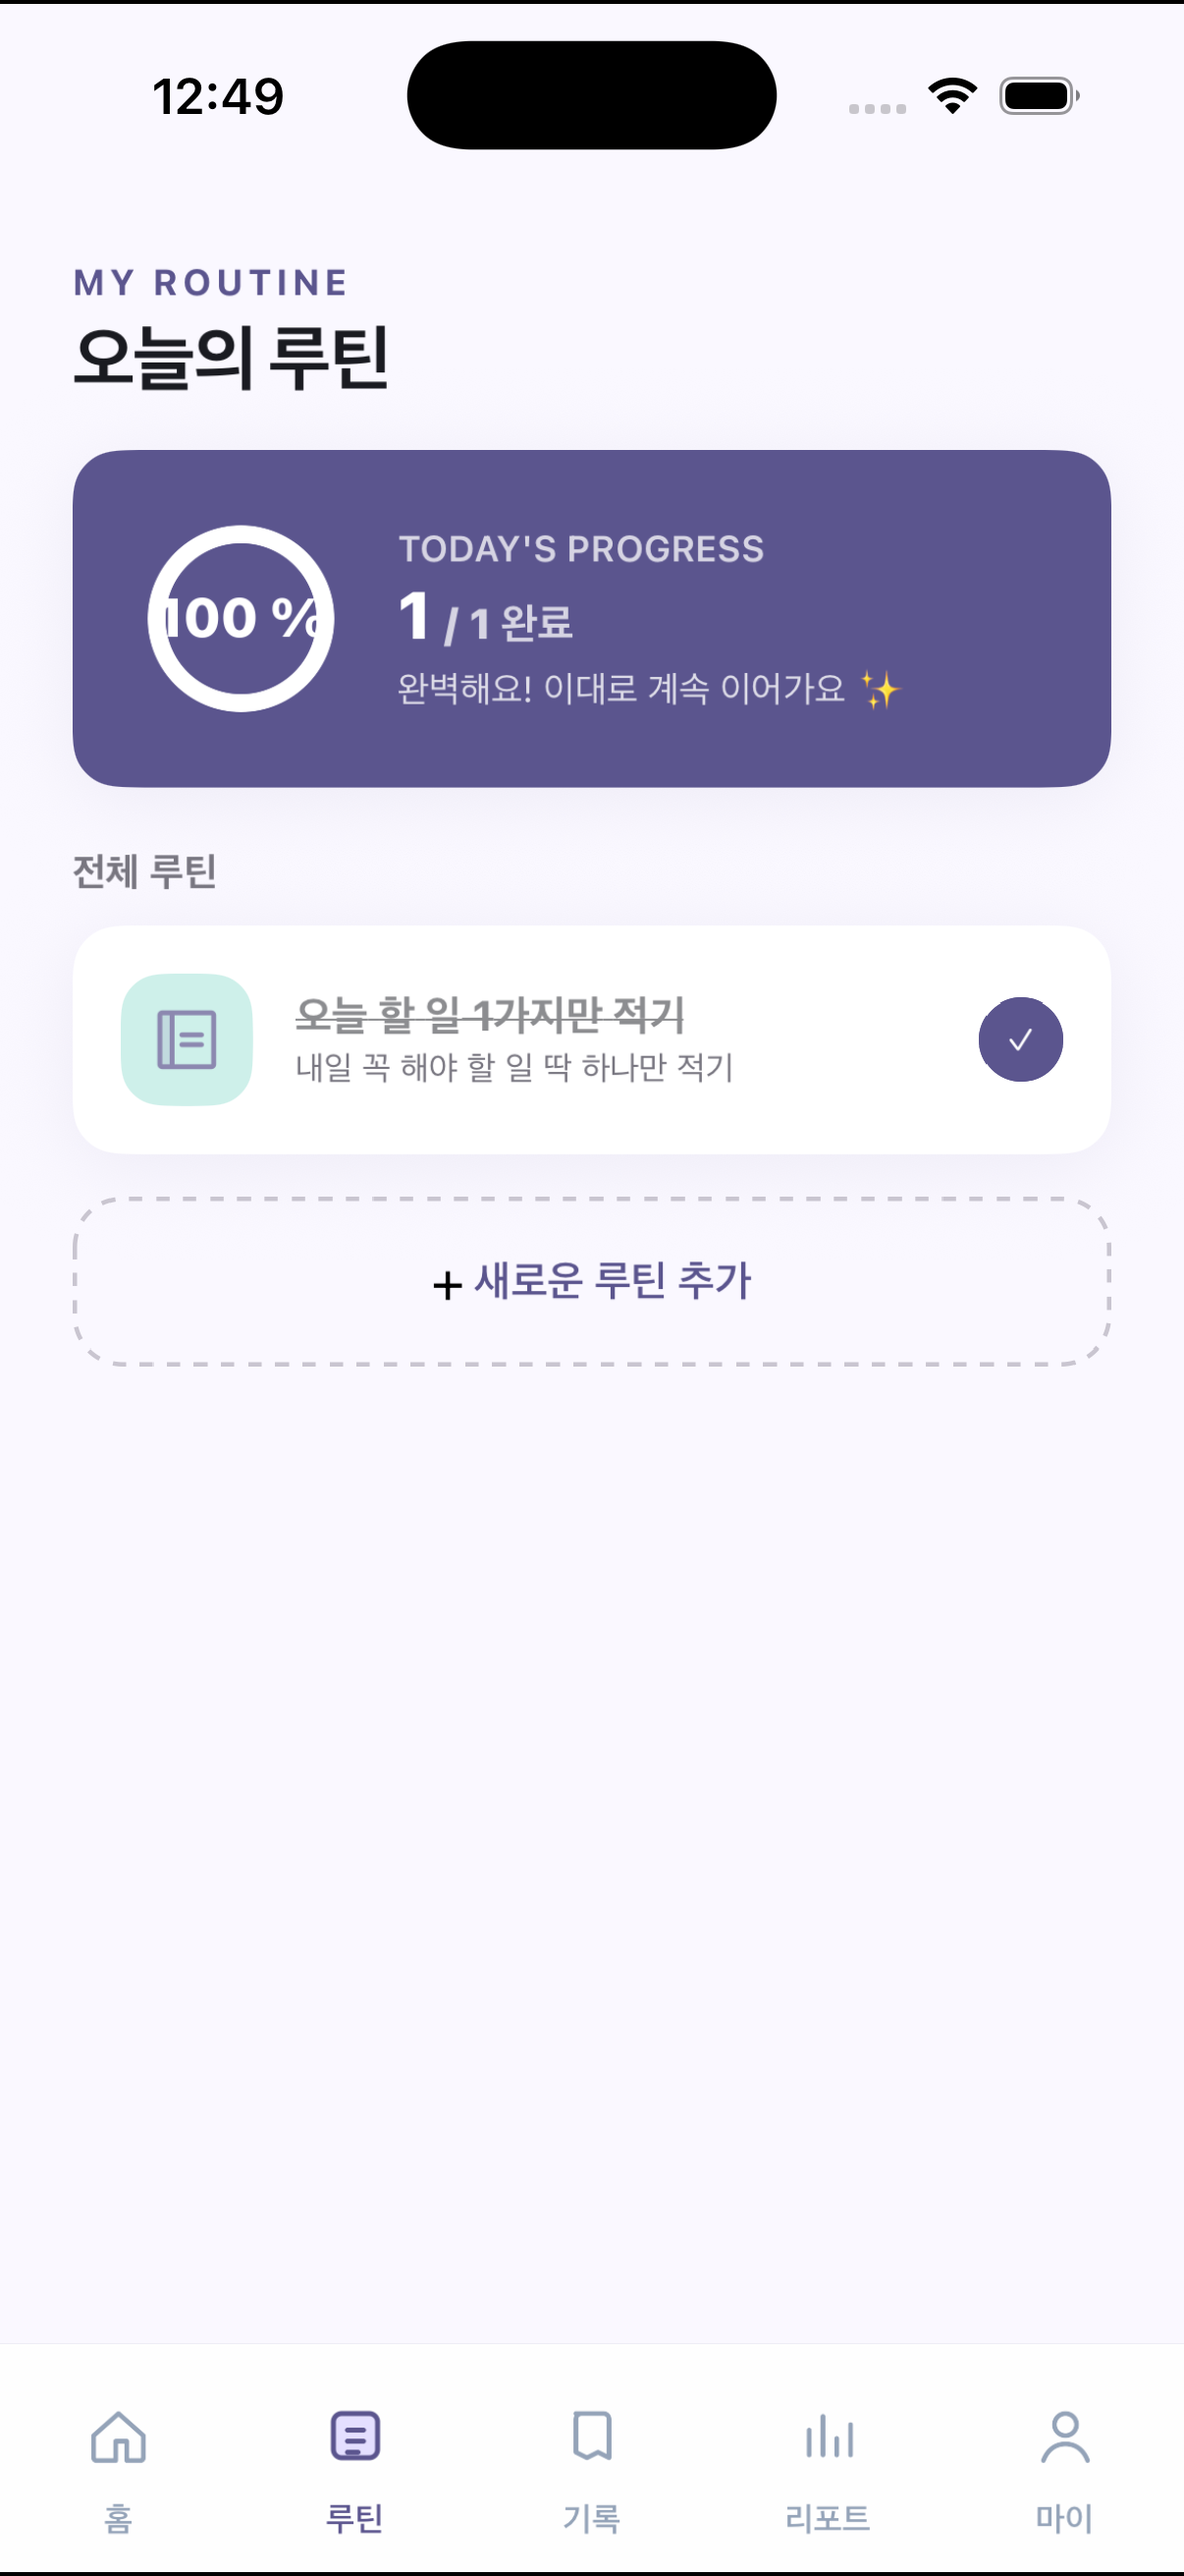
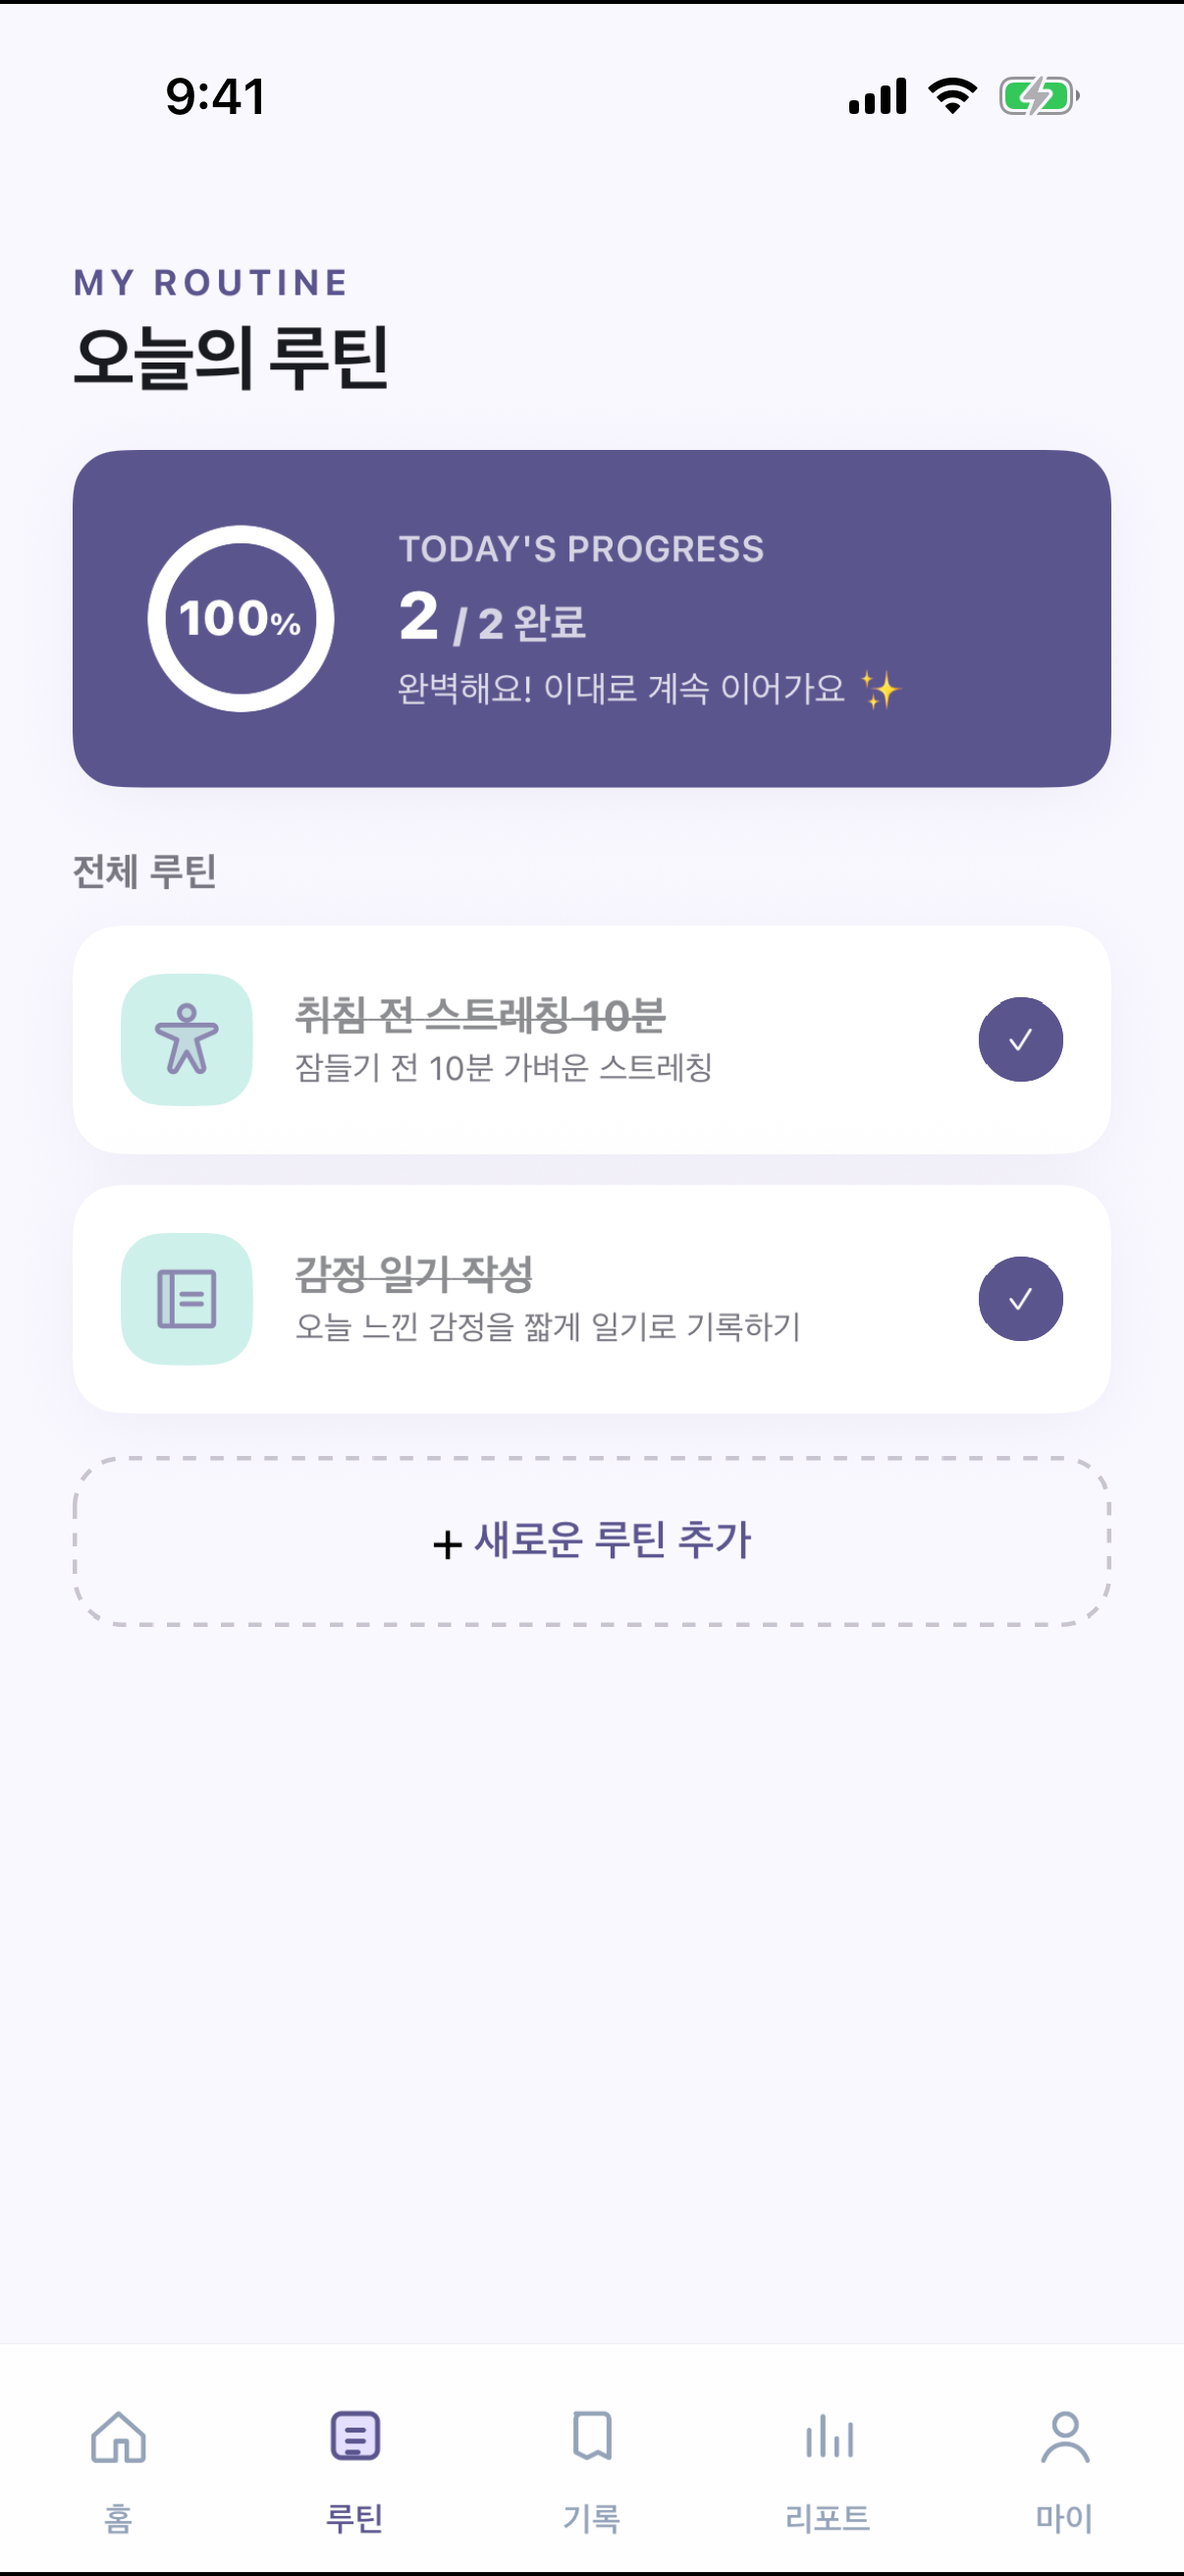
fix(mobile): v1.0.1 — 시작하기 두 번 탭 버그·진행률 링 100% 넘침 수정
- 인증 단계 전환 시 내비게이션 상태 초기화 문제 해결
- 루틴 진행률 링 텍스트 오버플로 버그 수정
- CHANGELOG 추가 및 문서 스크린샷 업데이트

diff --git a/mobile/src/screens/main/RoutineScreen.tsx b/mobile/src/screens/main/RoutineScreen.tsx
@@ -1,6 +1,6 @@
 import React from 'react';
 import { View, Text, Pressable, ScrollView, StyleSheet } from 'react-native';
-import Svg, { Circle, Text as SvgText } from 'react-native-svg';
+import Svg, { Circle } from 'react-native-svg';
 import { useNavigation } from '@react-navigation/native';
 import type { NativeStackNavigationProp } from '@react-navigation/native-stack';
 import type { RootStackParamList } from '@/navigation/Navigation';
@@ -16,15 +16,20 @@ type Nav = NativeStackNavigationProp<RootStackParamList>;
 function BigGauge({ value }: { value: number }) {
   const r = 28, c = 2 * Math.PI * r;
   return (
-    <Svg width={72} height={72} viewBox="0 0 72 72">
-      <Circle cx={36} cy={36} r={r} fill="none" stroke="rgba(255,255,255,0.2)" strokeWidth={6}/>
-      <Circle cx={36} cy={36} r={r} fill="none" stroke="#fff" strokeWidth={6}
-              strokeDasharray={`${c} ${c}`} strokeDashoffset={c * (1 - value / 100)}
-              strokeLinecap="round" transform="rotate(-90 36 36)"/>
-      <SvgText x={36} y={42} textAnchor="middle" fill="#fff" fontSize={18} fontWeight="800" fontFamily={fontFamily.enBold}>
-        {`${Math.round(value)} %`}
-      </SvgText>
-    </Svg>
+    <View style={s.gauge}>
+      <Svg width={72} height={72} viewBox="0 0 72 72">
+        <Circle cx={36} cy={36} r={r} fill="none" stroke="rgba(255,255,255,0.2)" strokeWidth={6}/>
+        <Circle cx={36} cy={36} r={r} fill="none" stroke="#fff" strokeWidth={6}
+                strokeDasharray={`${c} ${c}`} strokeDashoffset={c * (1 - value / 100)}
+                strokeLinecap="round" transform="rotate(-90 36 36)"/>
+      </Svg>
+      {/* 링 안쪽 지름은 50px — "100%"까지 들어가도록 숫자와 %를 나눠 가운데 정렬한다 */}
+      <View style={s.gaugeLabel}>
+        <Text style={s.gaugeValue}>
+          {Math.round(value)}<Text style={s.gaugeUnit}>%</Text>
+        </Text>
+      </View>
+    </View>
   );
 }
 
@@ -110,6 +115,10 @@ export default function RoutineScreen() {
 }
 
 const s = StyleSheet.create({
+  gauge: { width: 72, height: 72 },
+  gaugeLabel: { ...StyleSheet.absoluteFillObject, alignItems: 'center', justifyContent: 'center' },
+  gaugeValue: { color: '#fff', fontSize: 16, fontWeight: '800', fontFamily: fontFamily.enBold },
+  gaugeUnit: { fontSize: 10 },
   header: { padding: 24, paddingBottom: 16 },
   label: { fontSize: 12, color: palette.primary, fontWeight: '700', letterSpacing: 1.5, fontFamily: fontFamily.enBold },
   title: { marginTop: 4, fontSize: 24, fontWeight: '800', color: palette.textHeading, letterSpacing: -0.5 },

diff --git a/mobile/src/navigation/Navigation.tsx b/mobile/src/navigation/Navigation.tsx
@@ -114,15 +114,16 @@ export default function Navigation() {
 
   if (!hydrated) return null; // splash is shown by App.tsx until hydrated
 
-  // Stack.Navigator key — auth 단계가 바뀌면 navigator 자체를 remount.
-  // 같은 navigator 안에서 Stack.Group을 조건부로 swap하면 v6에서 현재 라우트가
-  // 새 그룹에 없을 때 전환이 누락되는 케이스가 있어, key 기반 remount로 해결한다.
+  // auth 단계가 바뀌면 NavigationContainer째 remount해 내비게이션 상태를 버린다.
+  // Stack.Navigator만 remount하면 상태는 컨테이너에 남아, 새 그룹에도 같은 이름의
+  // 화면(Assessment·InitialRoutine 등)이 있을 때 옛 스택이 그대로 복원된다
+  // (예: 첫 루틴 '시작하기'를 눌러도 main 그룹의 InitialRoutine에 머무는 버그).
   const navKey = !user ? 'auth' : user.requires_assessment ? 'assessment' : 'main';
 
   return (
-    <NavigationContainer>
+    <NavigationContainer key={navKey}>
       <NotificationBridge />
-      <Stack.Navigator key={navKey} screenOptions={{ headerShown: false, animation: 'slide_from_right' }}>
+      <Stack.Navigator screenOptions={{ headerShown: false, animation: 'slide_from_right' }}>
         {!user ? (
           <Stack.Group>
             <Stack.Screen name="Splash"     component={SplashScreen}/>

diff --git a/CHANGELOG.md b/CHANGELOG.md
@@ -1,0 +1,30 @@
+# Changelog
+
+이 프로젝트의 주요 변경 사항을 기록합니다. 형식은 [Keep a Changelog](https://keepachangelog.com/ko/1.1.0/)를, 버전은 [Semantic Versioning](https://semver.org/lang/ko/)을 따릅니다.
+버전은 모바일 앱(`mobile/app.json`) 기준이며, 각 버전은 같은 이름의 git 태그로 남깁니다.
+
+## [1.0.1] - 2026-10-07
+
+### Fixed
+- 첫 루틴 설정 화면의 **시작하기**를 두 번 눌러야 홈으로 이동하던 문제를 고쳤습니다.
+  auth 단계가 바뀔 때 `Stack.Navigator`만 다시 마운트되고 내비게이션 상태는 `NavigationContainer`에 남아 있었습니다. 그래서 같은 이름의 화면(`Assessment`·`InitialRoutine`)이 있는 main 그룹에서 이전 스택이 그대로 복원됐습니다. 이제 `NavigationContainer`를 단계별로 다시 마운트해 상태를 함께 초기화합니다.
+- 루틴 화면 진행률 링에서 **100 %** 표시가 원 밖으로 넘치던 문제를 고쳤습니다.
+  SVG 텍스트(18px, 공백 포함)를 링 위에 겹친 일반 텍스트로 바꾸고, 숫자 16px · `%` 10px로 나눠 안쪽 지름 50px 안에 들어가게 했습니다.
+
+### Docs
+- README의 루틴 스크린샷과 루틴·리포트 GIF를 수정된 화면으로 교체했습니다.
+
+## [1.0.0] - 2026-10-07
+
+GitHub 공개 기준 버전입니다.
+
+### Added
+- 익명 우선 인증과 이메일 인증을 통한 계정 전환
+- PHQ-9 자가평가와 초기 루틴 배정
+- 감정 일기(기분 → 감정 키워드 → 세부 질문 → 메모), 메모 AES-256-GCM 암호화
+- 근거 기반 루틴 트리거(게이트 체인 G1~G5)와 "지금 도움이 필요해요" 즉시 도움 경로
+- 주간·월간·연간 리포트, 미션 점수, 푸시 알림
+- AI 마음 대화(입력 위기 필터와 출력 금지어 검증)
+
+[1.0.1]: https://github.com/KimHands/bridge/compare/v1.0.0...v1.0.1
+[1.0.0]: https://github.com/KimHands/bridge/releases/tag/v1.0.0
